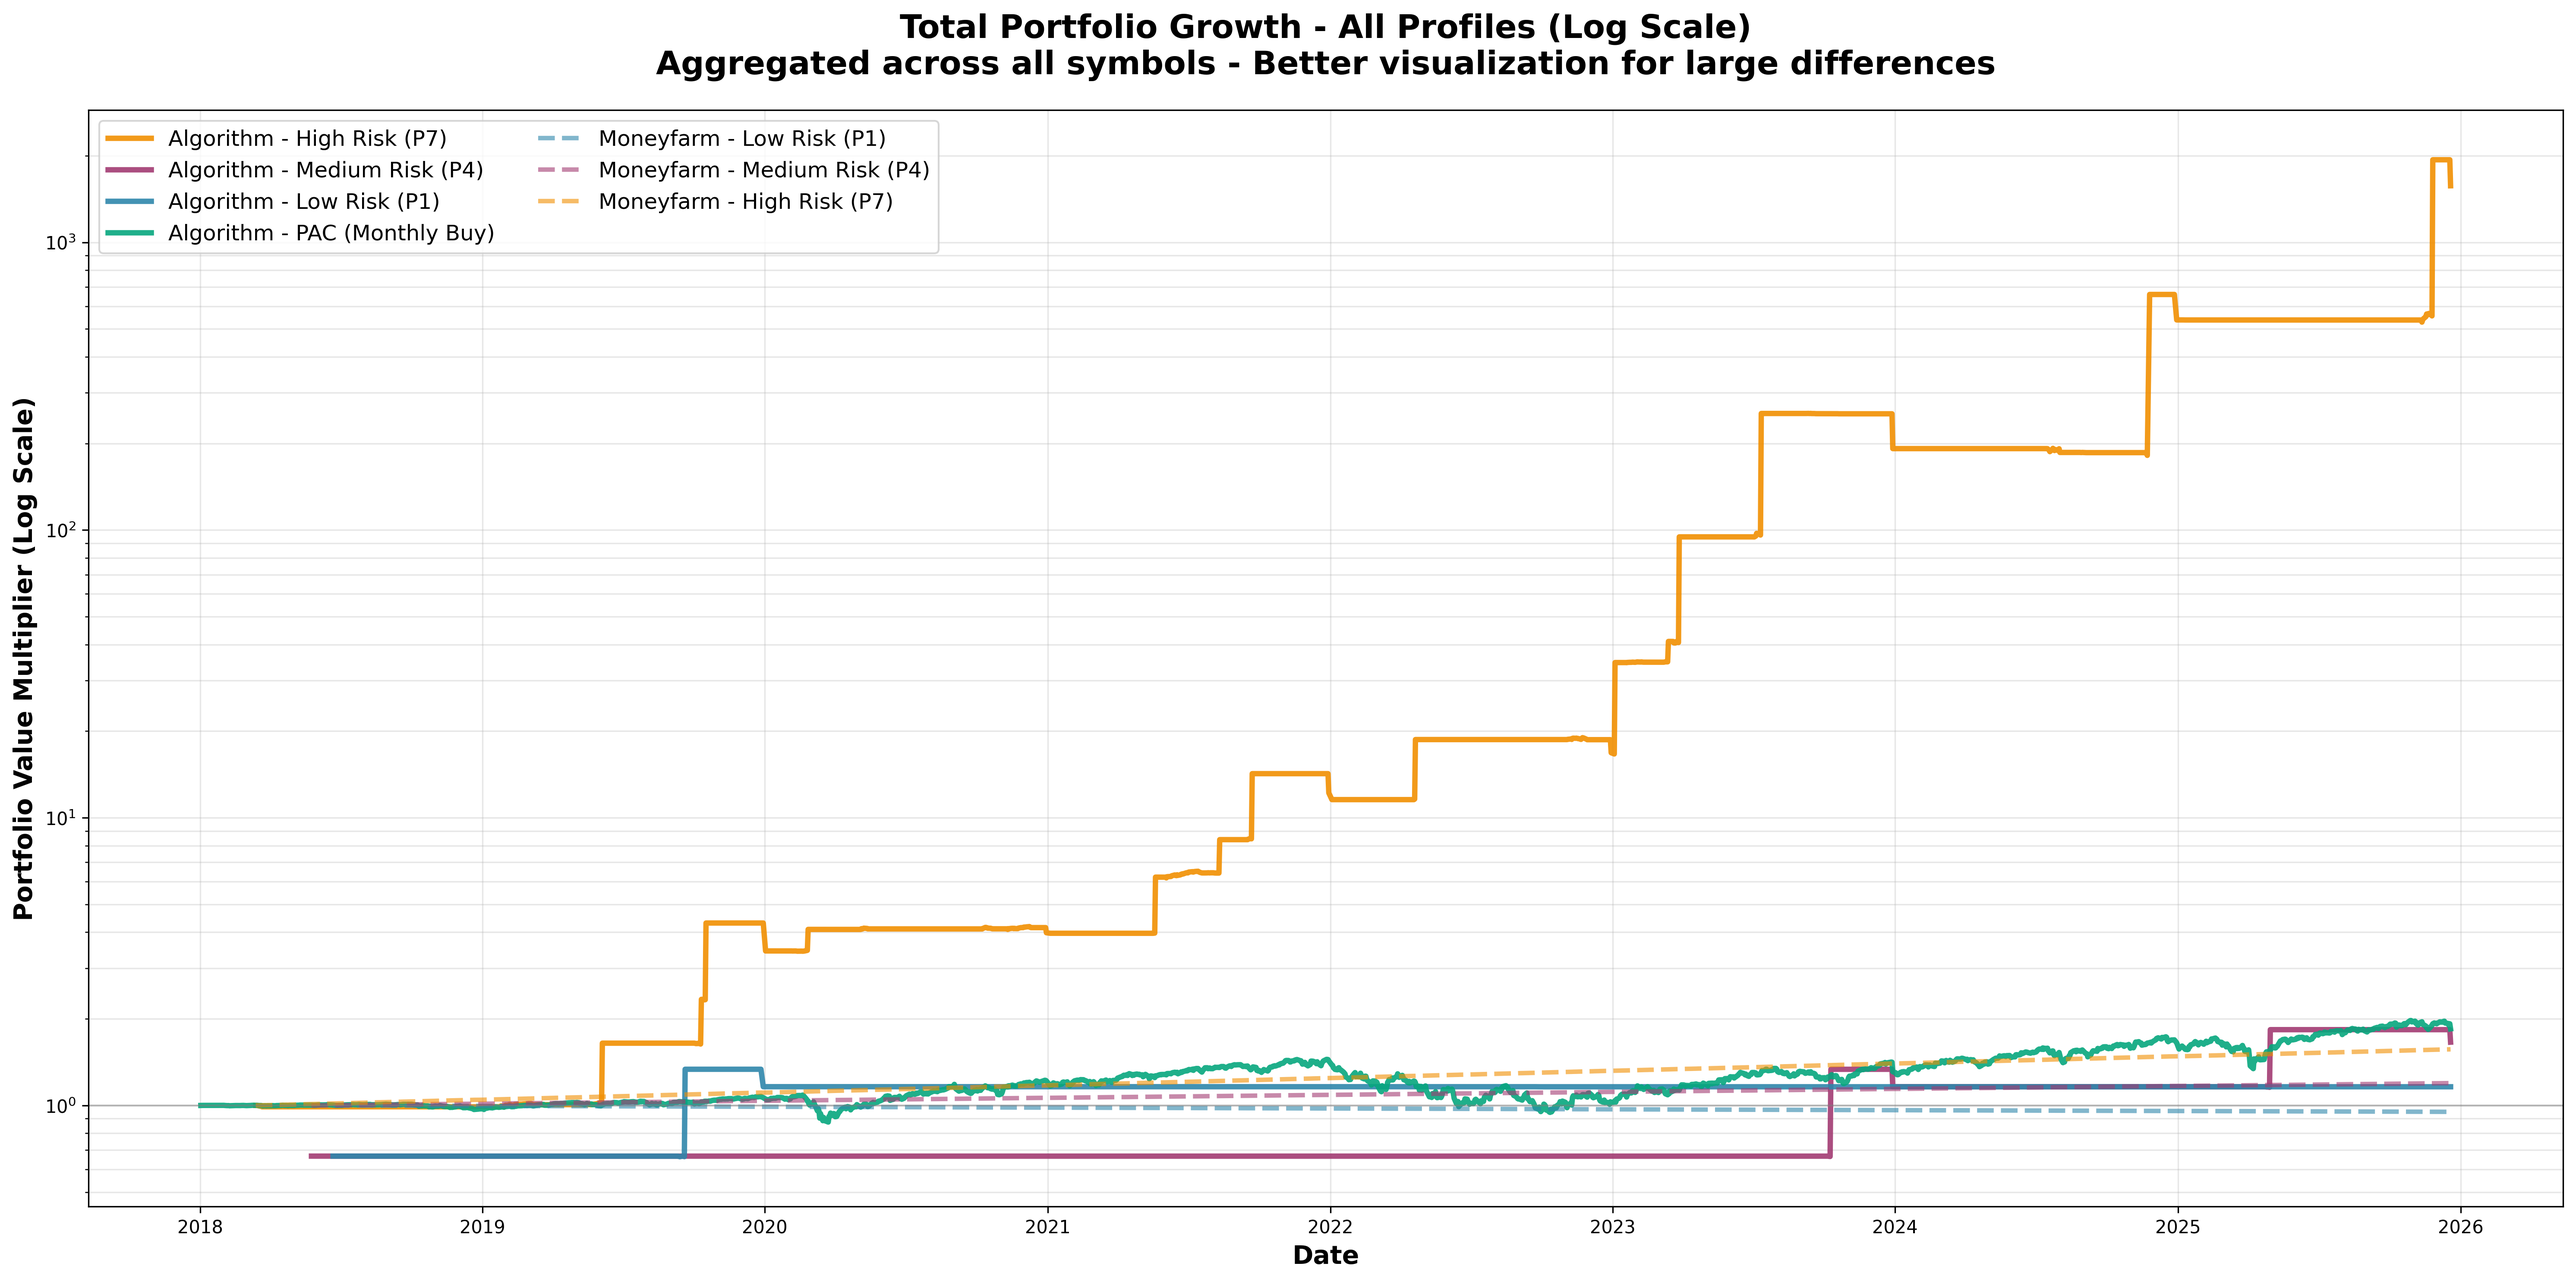
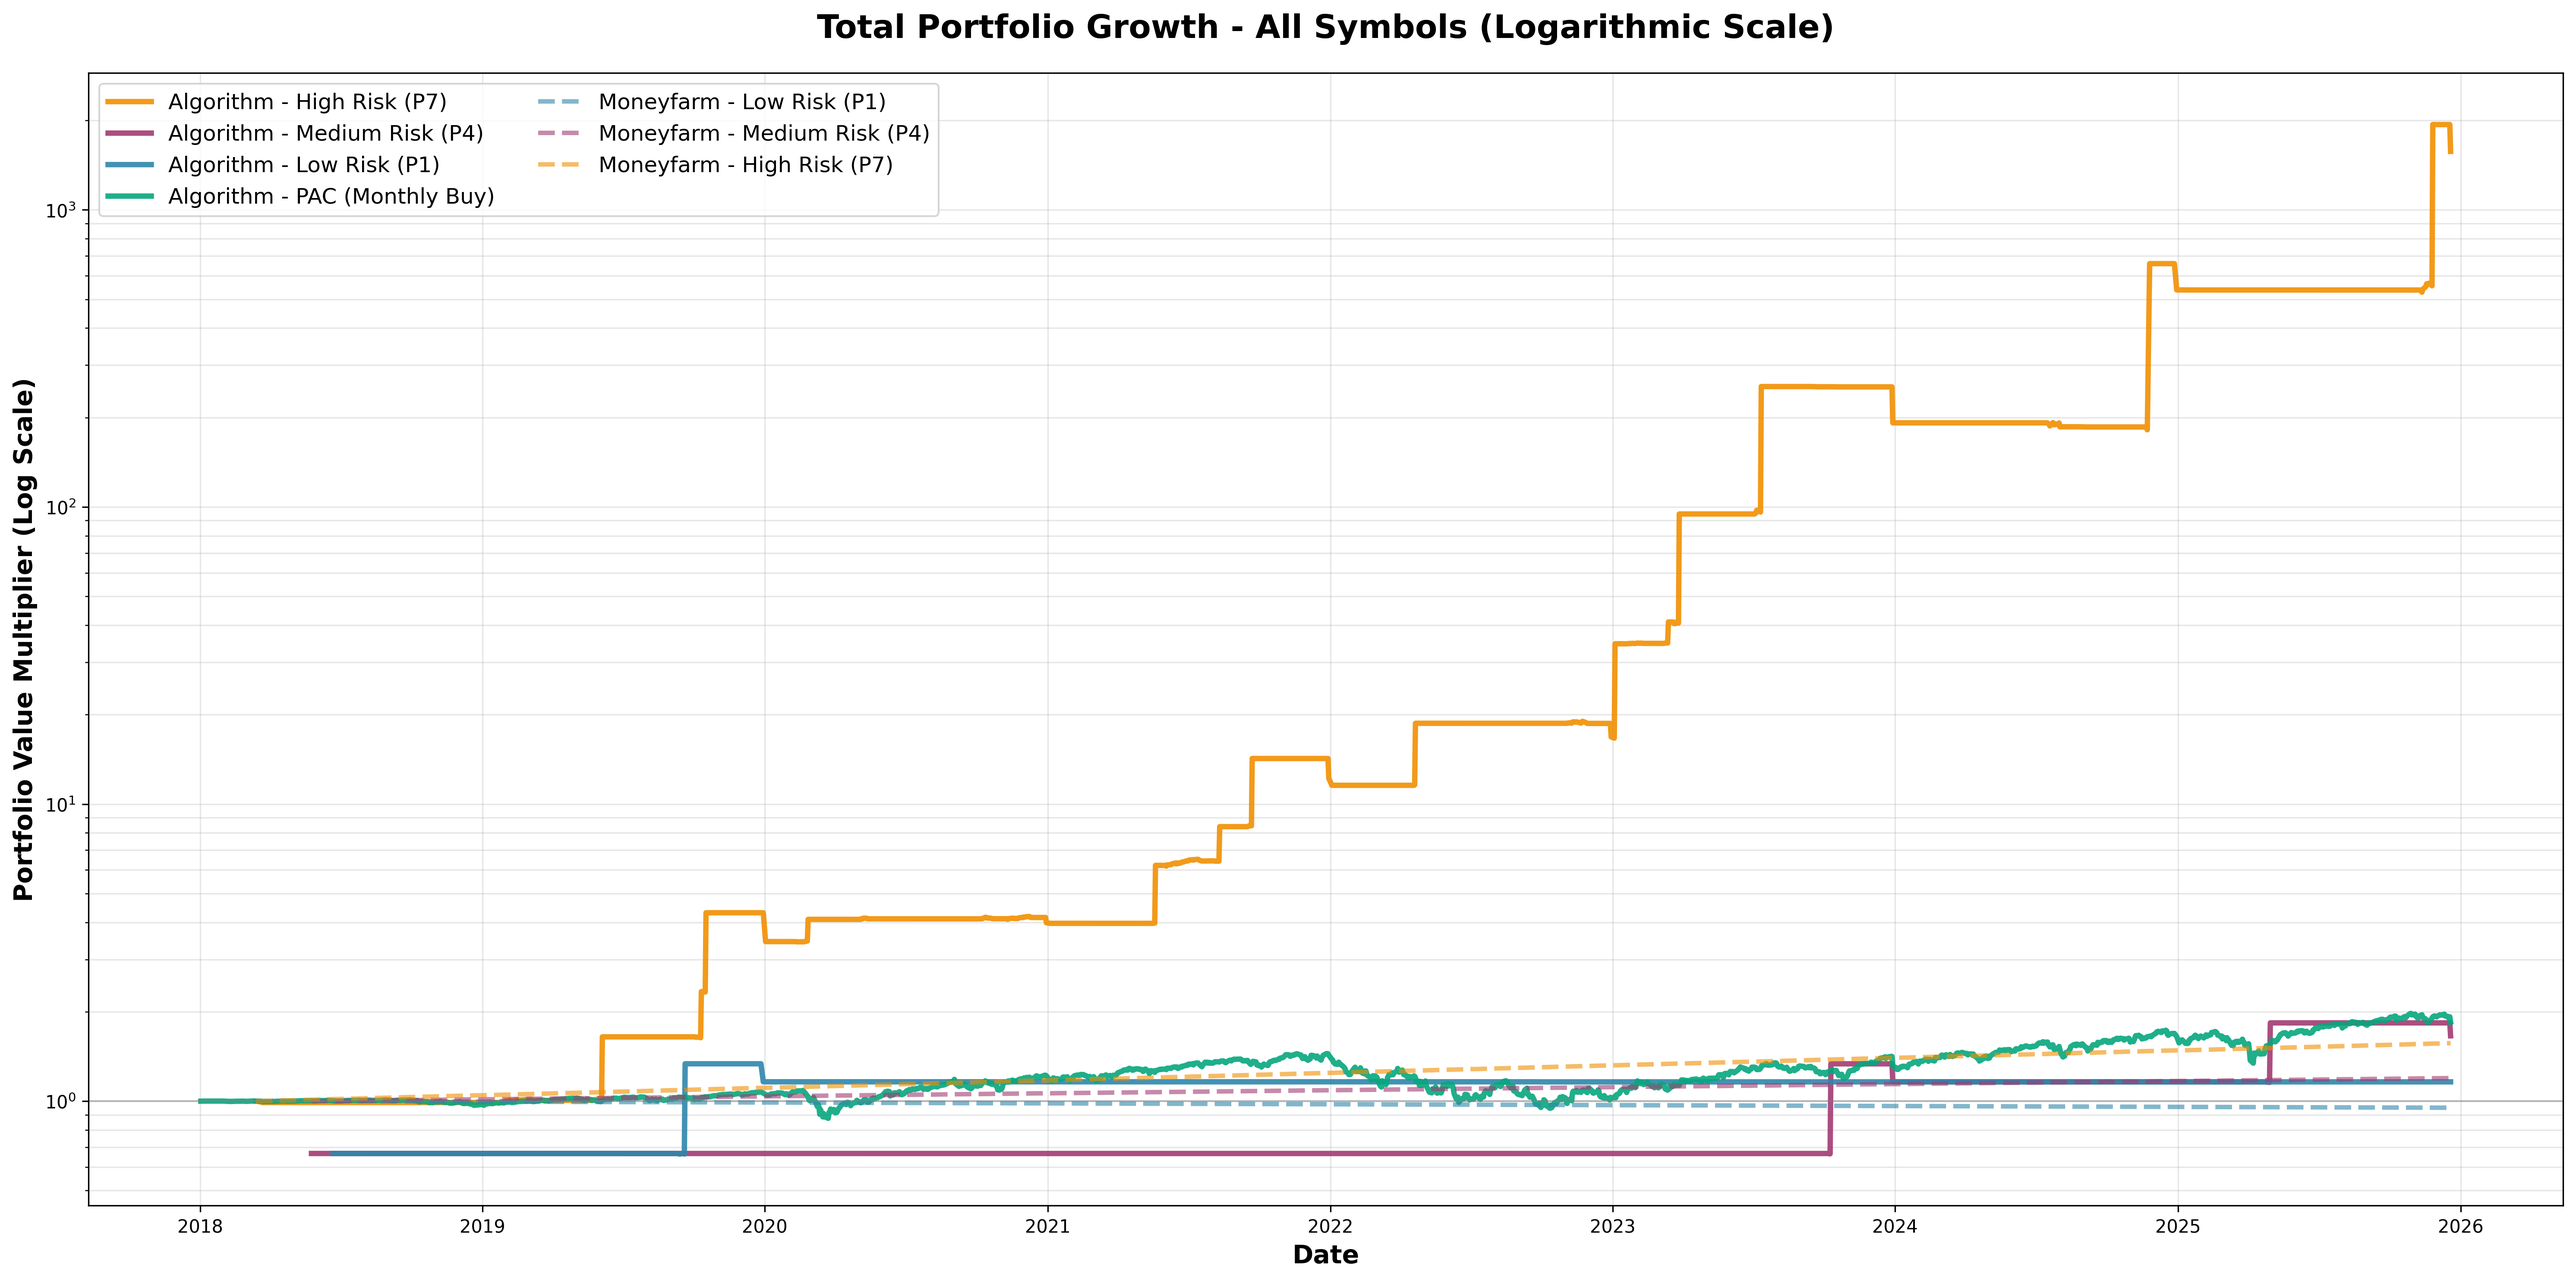
hotfix: polished printed graphs

diff --git a/print_graphs.py b/print_graphs.py
@@ -191,7 +191,7 @@ def main():
             ax.plot(bench_df.index, bench_df['close'] / bench_df['close'].iloc[0] * capital_per_symbol, 
                    label=f'Benchmark ({sym})', linewidth=2.5, color='black', linestyle=':', alpha=0.7)
             
-            ax.set_title(f'Equity Curve Comparison - {sym} (After 26% Italy Tax, Split Capital)', 
+            ax.set_title(f'Equity Curve Comparison - {sym} only',
                         fontsize=17, fontweight='bold', pad=20)
             ax.set_xlabel('Date', fontsize=13, fontweight='bold')
             ax.set_ylabel('Portfolio Value ($)', fontsize=13, fontweight='bold')
@@ -319,7 +319,7 @@ def main():
         #5) Performance Metrics - Algorithm vs Moneyfarm (per symbol)
         try:
             fig, axes = plt.subplots(2, 2, figsize=(18, 13))
-            fig.suptitle(f'Performance Metrics - {sym} (After 26% Italy Tax, Split Capital)', 
+            fig.suptitle(f'Performance Metrics - {sym} only', 
                         fontsize=17, fontweight='bold', y=0.995)
             
             #Use only profiles with robo comparison for this chart
@@ -347,7 +347,7 @@ def main():
                 axes[0, 0].set_title('Total Return (%) - Algorithm vs Moneyfarm', fontsize=13, fontweight='bold')
                 axes[0, 0].set_xticks(x)
                 axes[0, 0].set_xticklabels([profile_labels[p] for p in comparison_profiles], fontsize=10)
-                axes[0, 0].legend(fontsize=10)
+                axes[0, 0].legend(fontsize=10, loc='upper left')
                 axes[0, 0].grid(True, alpha=0.3, axis='y')
                 axes[0, 0].axhline(y=0, color='gray', linestyle='-', linewidth=0.8)
             
@@ -361,7 +361,7 @@ def main():
                 axes[0, 1].text(bar.get_x() + bar.get_width()/2., height,
                                f'{height:.2f}', ha='center', va='bottom' if height >= 0 else 'top', 
                                fontsize=10, fontweight='bold')
-            axes[0, 1].set_title('Sharpe Ratio (All Profiles)', fontsize=13, fontweight='bold')
+            axes[0, 1].set_title('Sharpe Ratio (%/%) - All Profiles', fontsize=13, fontweight='bold')
             axes[0, 1].set_xticks(x_all)
             axes[0, 1].set_xticklabels([profile_labels[p] for p in available_profiles], fontsize=10)
             axes[0, 1].grid(True, alpha=0.3, axis='y')
@@ -485,7 +485,7 @@ def main():
                     ax1.grid(True, alpha=0.3)
                     
                     #Bottom: Monthly investment markers on price chart
-                    ax2.plot(pac_df.index, pac_df['close'], label=f'{sym} Price', 
+                    ax2.plot(pac_df.index, pac_df['close'], label=f'{sym} Price ($)', 
                             linewidth=2, color='black', alpha=0.7)
                     ax2.scatter(pac_trades['date'].values, pac_trades['price'].values, 
                                color='#06A77D', s=80, alpha=0.7, zorder=5, label='Monthly Purchases')
@@ -636,7 +636,7 @@ def main():
                        linewidth=2.5, color=colors[profile], linestyle='--', alpha=0.6)
         
         ax.set_yscale('log')
-        ax.set_title('Total Portfolio Growth - All Profiles (Log Scale)\nAggregated across all symbols - Better visualization for large differences', 
+        ax.set_title('Total Portfolio Growth - All Symbols (Logarithmic Scale)', 
                     fontsize=18, fontweight='bold', pad=20)
         ax.set_xlabel('Date', fontsize=14, fontweight='bold')
         ax.set_ylabel('Portfolio Value Multiplier (Log Scale)', fontsize=14, fontweight='bold')
@@ -799,7 +799,7 @@ def main():
                         table[(i+1, j)].set_facecolor(colors[profile])
                         table[(i+1, j)].set_alpha(0.3)
         
-        plt.title('Total Portfolio Performance Summary - All Profiles', 
+        plt.title('Total Portfolio Performance Summary', 
                  fontsize=16, fontweight='bold', pad=20)
         plt.tight_layout()
         plt.savefig(f"{OUTPUT_DIR}/portfolio_performance_table.png", dpi=300, bbox_inches='tight')
@@ -810,7 +810,7 @@ def main():
         print(f"[ERROR] Failed to create portfolio-level graphs: {e}")
 
     print("\n" + "="*60)
-    print("All graphs completed")
+    print("All portfolio graphs completed")
     print("="*60)
 
 if __name__ == "__main__":

diff --git a/signals_generation.py b/signals_generation.py
@@ -23,7 +23,7 @@ def main():
             df = df_base.copy()
 
             if profile == 'pac':
-                # PAC strategy: Buy signal on first trading day of each month
+                #PAC strategy: Buy signal on first trading day of each month
                 df['Signal'] = 0
                 df['year_month'] = df.index.to_period('M')
                 

diff --git a/backtesting.py b/backtesting.py
@@ -197,6 +197,7 @@ def main():
     success_count = 0
     fail_count = 0
     
+    #Backtests for all symbols and profiles
     for sym in SYMBOLS:
         for profile in PROFILES:
             try:
